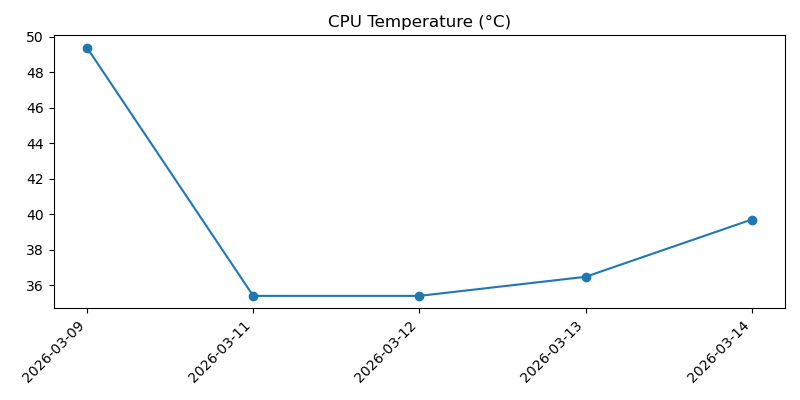
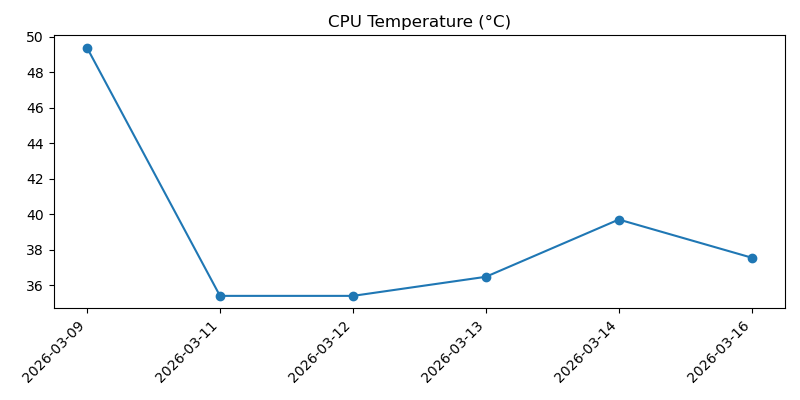
Add daily health and weather snapshot

diff --git a/2026-03.md b/2026-03.md
@@ -169,3 +169,37 @@
 - Overall: Good
 - Warning: None
 
+## 2026-03-16 11:27:13
+
+### Machine
+- Uptime: up 6 days, 17 hours, 48 minutes
+- CPU load (1m, 5m, 15m): 0.00, 0.00, 0.00
+- RAM used: 187 MB / 921 MB (20.3%)
+- Disk used (/): 3.4 GB / 28.8 GB (11.9%)
+- Free disk space (/): 24.1 GB
+- CPU temp: 37.6°C
+- Voltage / throttling: OK
+
+### Reachability
+- Internet check (1.1.1.1): Reachable (3.4 ms)
+
+### Weather
+- Madrid:
+  - Condition: Despejado
+  - Max temp: 18°C
+  - Min temp: 3°C
+  - Feels like: 11°C
+  - Chance of rain: 0%
+  - Warnings: None reported
+- Barcelona:
+  - Condition: Nubes altas
+  - Max temp: 17°C
+  - Min temp: 7°C
+  - Feels like: 12°C
+  - Chance of rain: 0%
+  - Warnings: None reported
+
+### Health
+- Overall: Good
+- Warning: None
+
